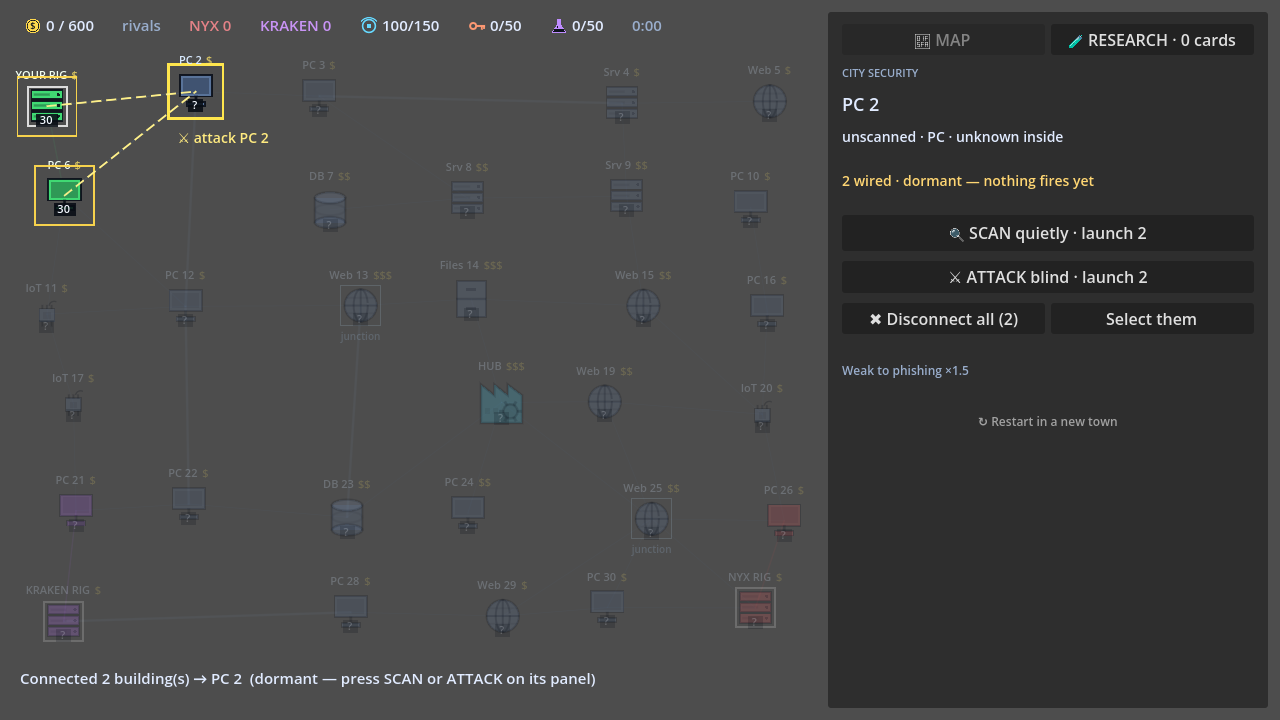
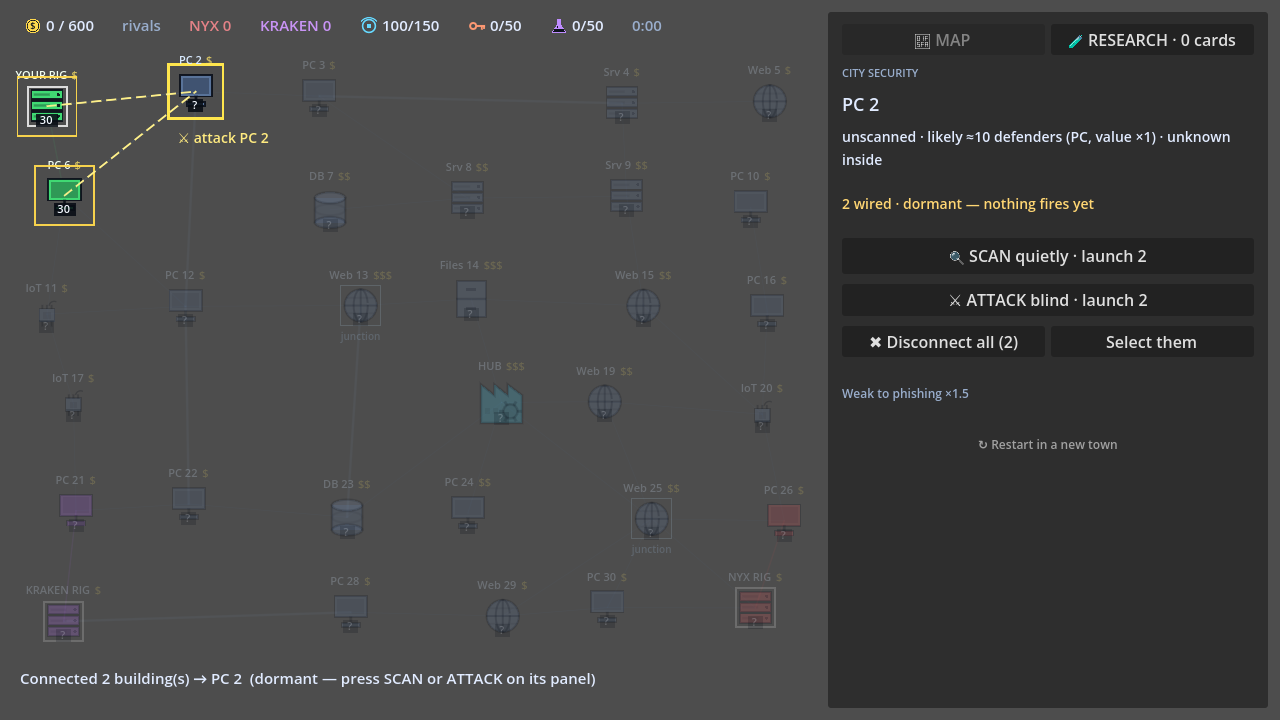
Verification pass on the fog: memory order, released wires, lawful panels, UI twin test
Three independent reviews of the fog-bound AI. Engine: the capture memory is
written after the owner flips and for every botnet, without the hidden
contents key; a fresh scan keeps the old memory; the visible-outflow reader
needs a drawn route. AI: the pre-strike phish fires after the strike is wired,
the choke-the-leader delivery wire is released, dormant guards can be
re-targeted, a stalled target is shunned for two patiences and only while it
keeps its owner, a cut route pauses a wire instead of dropping it, Intel
budgets respect SEND_RATE and count hops, no phish on a target about to fall,
a dead botnet is never the leader. Player's screen: a foreign building's
panel no longer lights the target of its hidden wire; the launch pad and the
attack line use the AI's readers; the scan line hides the inside count; amber
streets come from visible traffic; a stale scan shows what was last seen,
a witnessed capture shows near-empty, an unscanned building shows the public
prior. Probe: 41 cases pass, including a UI twin test; gallery re-rendered.

Claude-Session: https://claude.ai/code/session_01Ti5DGJBpi5o1ddyD79UZee

Changed region(s): [[0.6562, 0.2139, 0.9375, 0.55], [0.7188, 0.1833, 0.9688, 0.2139], [0.7812, 0.5806, 0.875, 0.6417]]

diff --git a/design/BOTNET_ATTACK_DESIGN.md b/design/BOTNET_ATTACK_DESIGN.md
@@ -566,6 +566,21 @@ anything older. Historical pre-attrition designs live in `BOTNET_ATTACK_HISTORY.
     scanned buildings. A twin test (probe 27) perturbs only hidden fields and asserts identical AI decisions;
     thirteen more cases cover the gates, memory and every trick; a pacing guard asserts both AIs still capture
     within 150 s on two seeds. `AI_SPEED` is the human handicap knob.
+24. **Verification pass on the fog (2026-10-12):** three independent skeptics (hidden reads, decision logic,
+    UI symmetry) reviewed the rewrite. Fixed: the capture memory was written before the owner flipped (the
+    loser never got it) and carried the hidden contents key (now blank; a fresh scan keeps the old memory);
+    the visible-outflow reader counted an undrawn, routeless rally; the pre-strike phish was checked before the
+    strike was wired; the choke-the-leader delivery wire was never released; dormant guards could never be
+    re-targeted; a stalled target was shunned forever (now 2 × patience, and only while it keeps its owner);
+    a cut route released a wire at once (now paused for patience, as the engine does for everyone); Intel
+    budgets assumed `SEND_RATE` 1 and counted route nodes as seconds; a phish was wasted on a target about to
+    fall; a dead botnet could be "the leader". On the player's side: opening a foreign building's panel lit the
+    target of its hidden wire (the one real leak); the launch pad's preview and the attack line used the
+    target's hidden job and rate dial (now the same readers as the AI); the scan line revealed the inside
+    count; streets glowed amber from invisible scan packets (now visible traffic only); and the player got less
+    memory than the AI (now a stale scan shows "last seen … ≈N bots now", a witnessed capture shows "≈0", and an
+    unscanned building shows the same public prior the AI uses). Probe: a UI twin test (41) joins the AI twin
+    test (27).
 
 ## Stoppers and status
 Addressed in code: explicit launch, live panel, no map overlap, no Intel lockout (demolish/rebuild), neutral

diff --git a/review/botnet_v2_2026-10-11/README.md b/review/botnet_v2_2026-10-11/README.md
@@ -7,10 +7,10 @@ with the designer's two-verb control scheme (wire by drag, launch from the targe
 themselves) and the cost-aware AI botnets.
 
 - `all_cards.png` — every card face, LINKED row and ANY row, as the research tab draws them.
-- `probe.gd` — SceneTree script: 40 fixture cases on a fixed town seed (27–40 cover the fog-bound AI: a twin
+- `probe.gd` — SceneTree script: 41 fixture cases on a fixed town seed (27–41 cover the fog-bound AI: a twin
   test that perturbs only hidden fields, the public prior, scout-then-strike, visibility of others' flows, scan
   memory, the lawful counter-attack, limits, retaking, idle scouting, choking the leader, learned edges, worm
-  value, and a pacing guard) plus three full 10 Hz matches as
+  value, a pacing guard, and a UI twin test for the player's panel) plus three full 10 Hz matches as
   pacing readings. Calls the real simulation functions; not a usability test, not a balance verdict.
 - `results.json` — the run recorded here.
 - `shot.gd` + `captures/` — early rendered checks of the four panel states.
